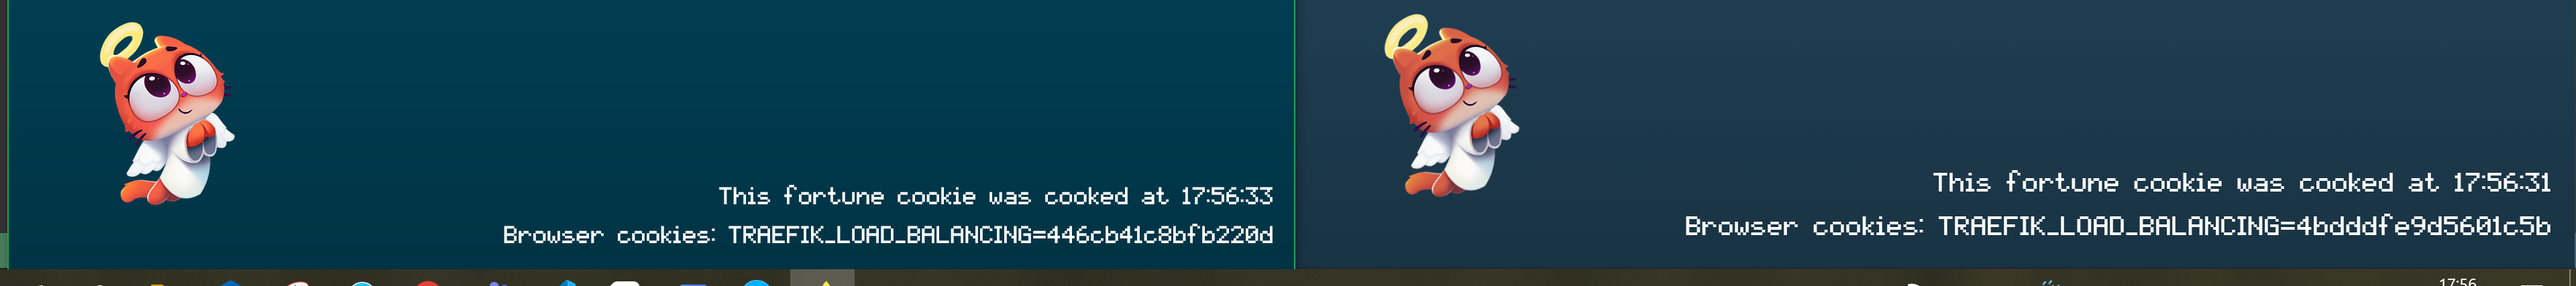
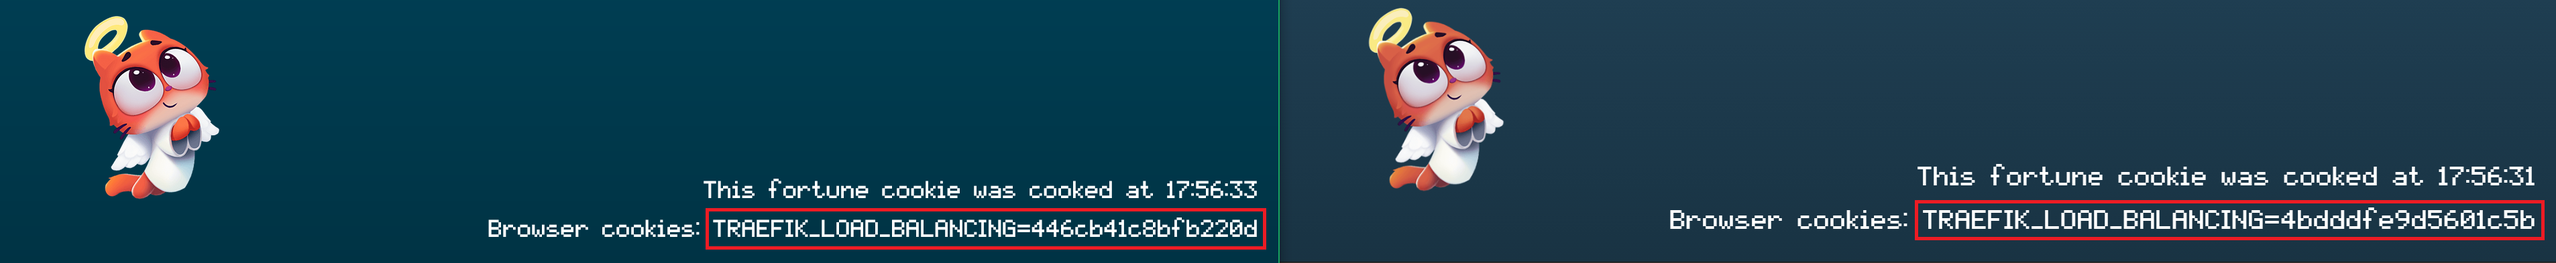
add images

Changed region(s): [[0.0, 0.0, 1.0, 1.0], [0.5308, 0.0305, 0.5933, 0.7328]]

diff --git a/README.md b/README.md
@@ -269,19 +269,19 @@ Une fois les serveur démarrés, il faut ouvrir un navigateur et accéder à la 
 
 Dans la console, nous pouvons voir en direct lequel des serveurs dynamique lancés répond aux requetés:
 
-**TODO ECE IMG**
+![](C:\Users\Emmanuelle\Documents\RES\labo5\RES_Labo5_HTTP\img\round-robin dynamic-server.PNG)
 
 Pour valider que le serveur statique utilise bien les *sticky session*, il faut cette fois-ci lancer au moins deux instances du serveur statique et, comme avec le serveur dynamique, ne pas mettre l'option `-d` à la commande `docker-compose up`.
 
 Une fois les serveurs démarrés, ouvrir au moins 2 navigateurs (par exemple Google Chrome et Firefox) et accéder à la page du serveur statique. 
 
-Premièrement, le cookie est affiché sur la page web en bas à droite. Il est possible de voir que les navigateurs n'ont pas tous le même cookie.
+Premièrement, le cookie est affiché sur la page web en bas à droite. Il est donc possible de voir que les navigateurs n'ont pas tous le même cookie.
 
-**TODO ECE IMG**
+![](C:\Users\Emmanuelle\Documents\RES\labo5\RES_Labo5_HTTP\img\not-same-cookie-navigateur.PNG)
 
 Deuxièmement, si nous faisons plusieurs `ctrl+F5` sur un des navigateur, nous voyons, dans le terminal, que c'est toujours le même container qui répond.
 
-**TODO ECE IMG**
+![](C:\Users\Emmanuelle\Documents\RES\labo5\RES_Labo5_HTTP\img\sticky-session-static-server.PNG)
 
 #### Remarques
 
